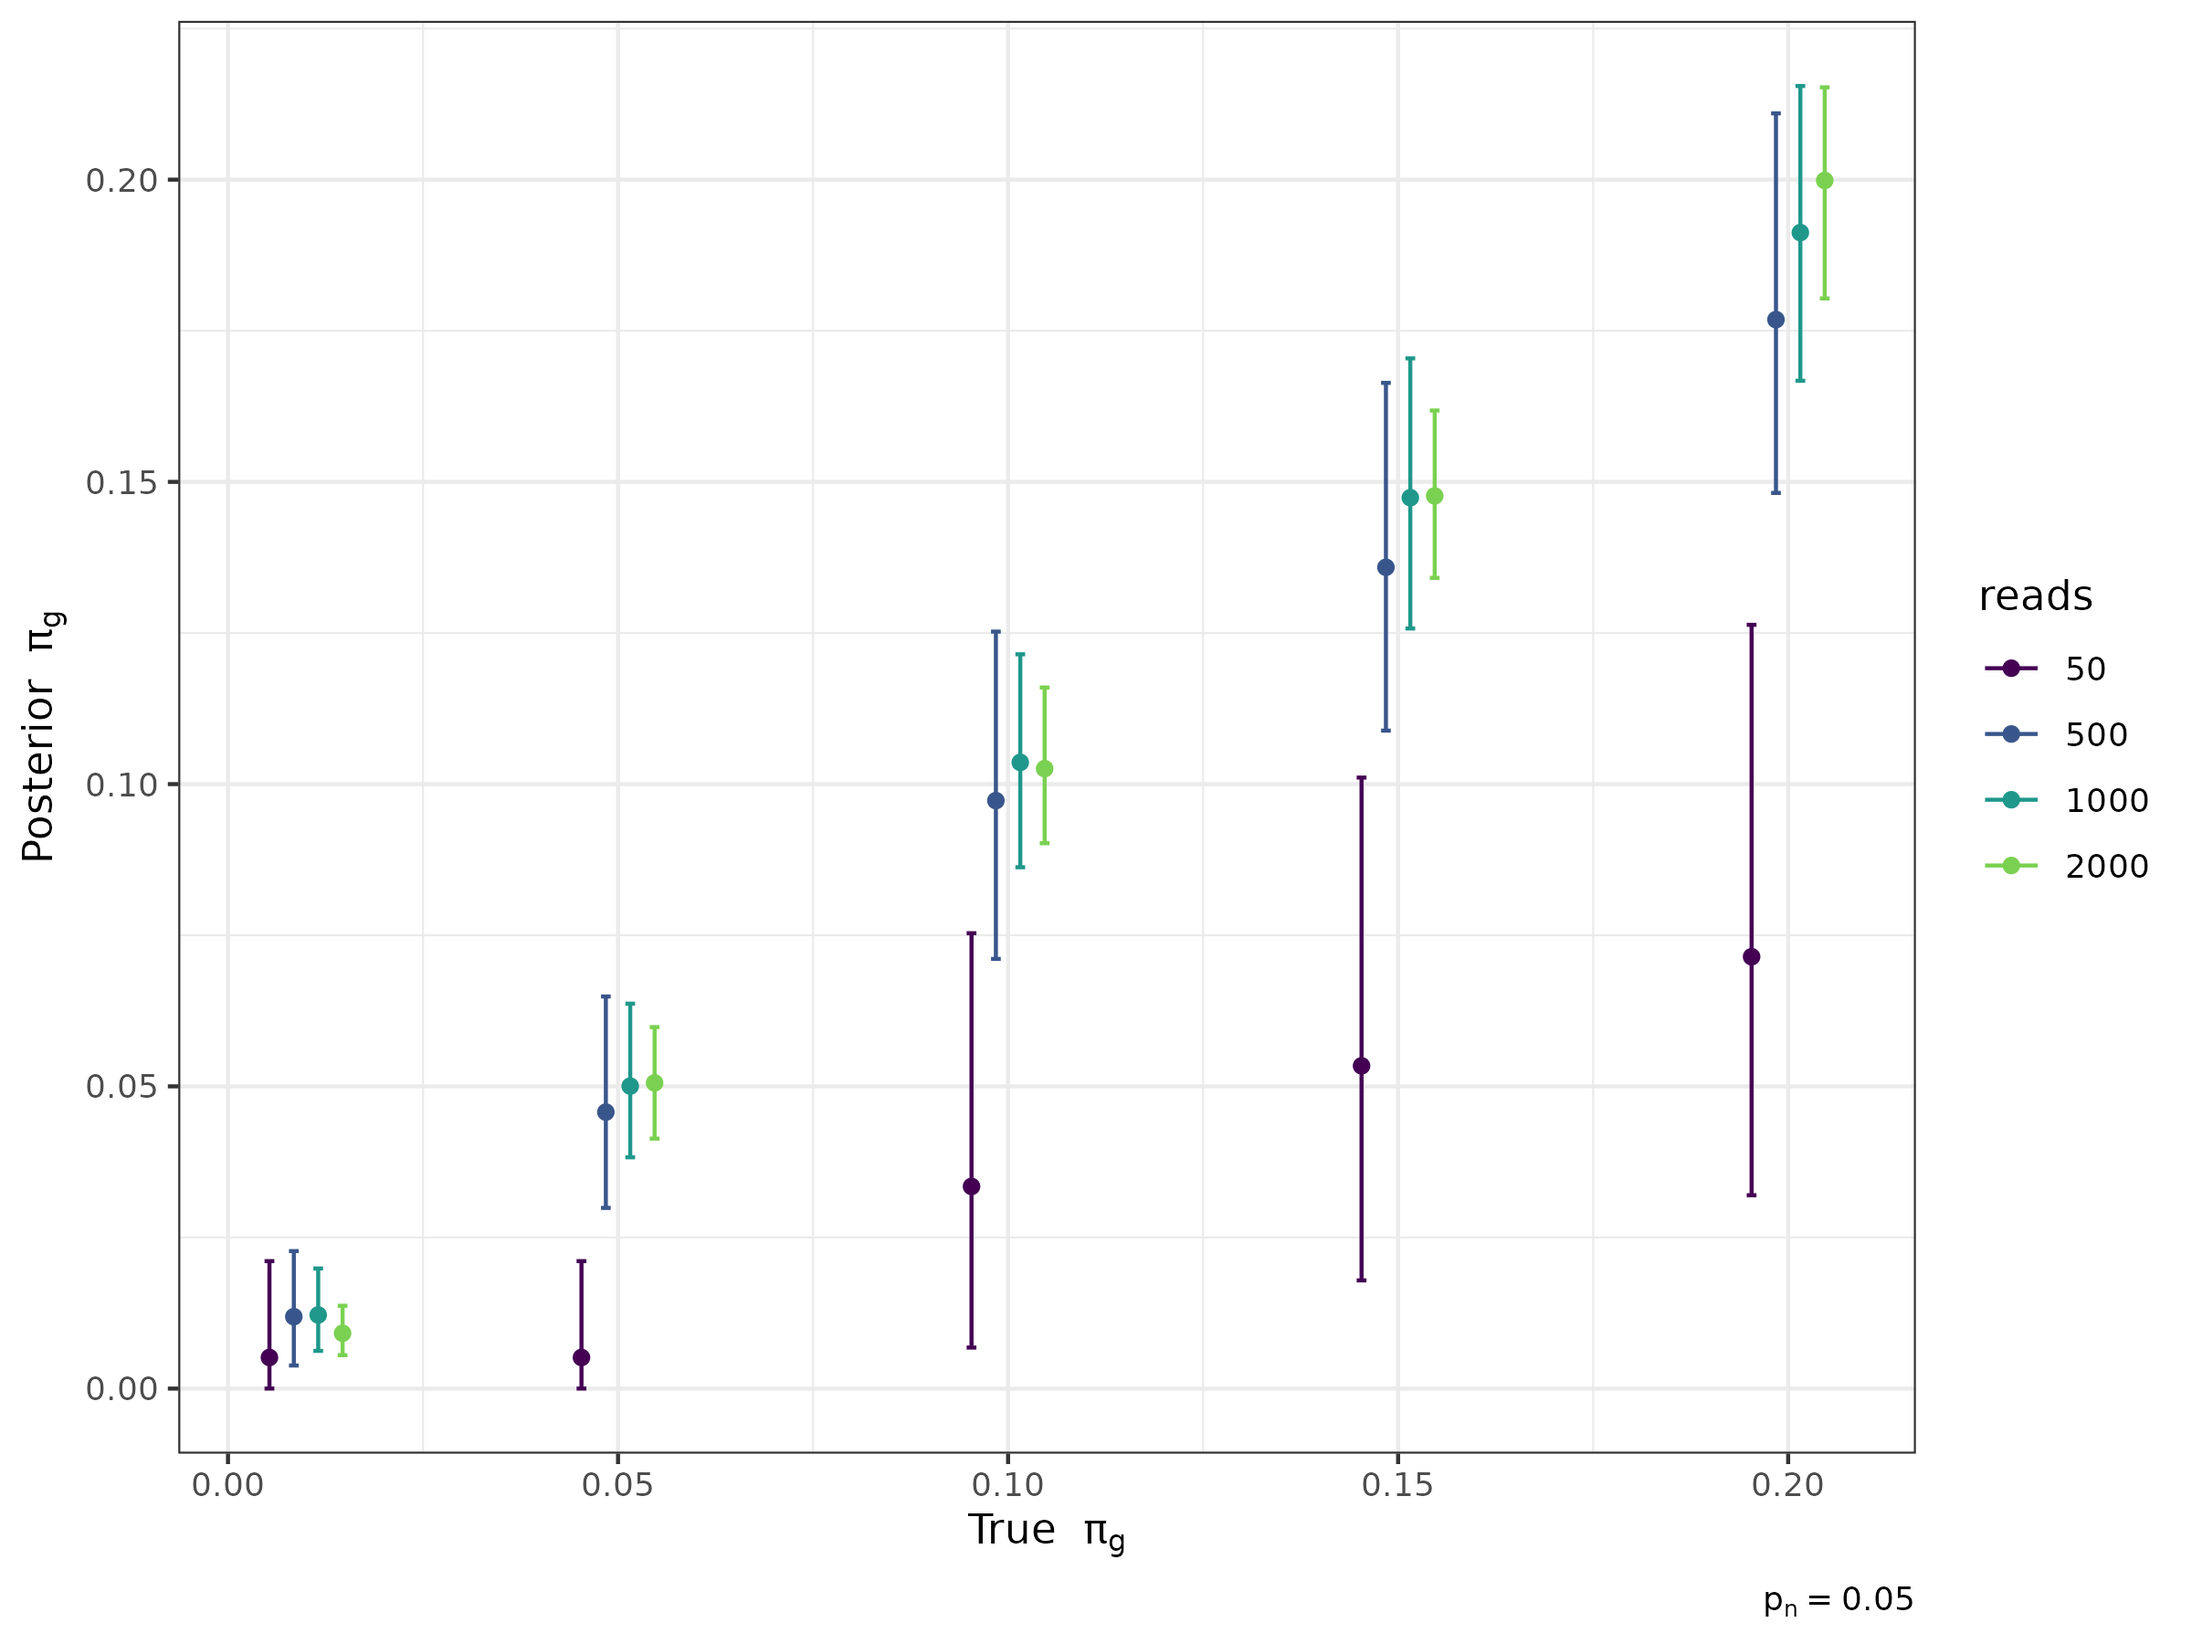
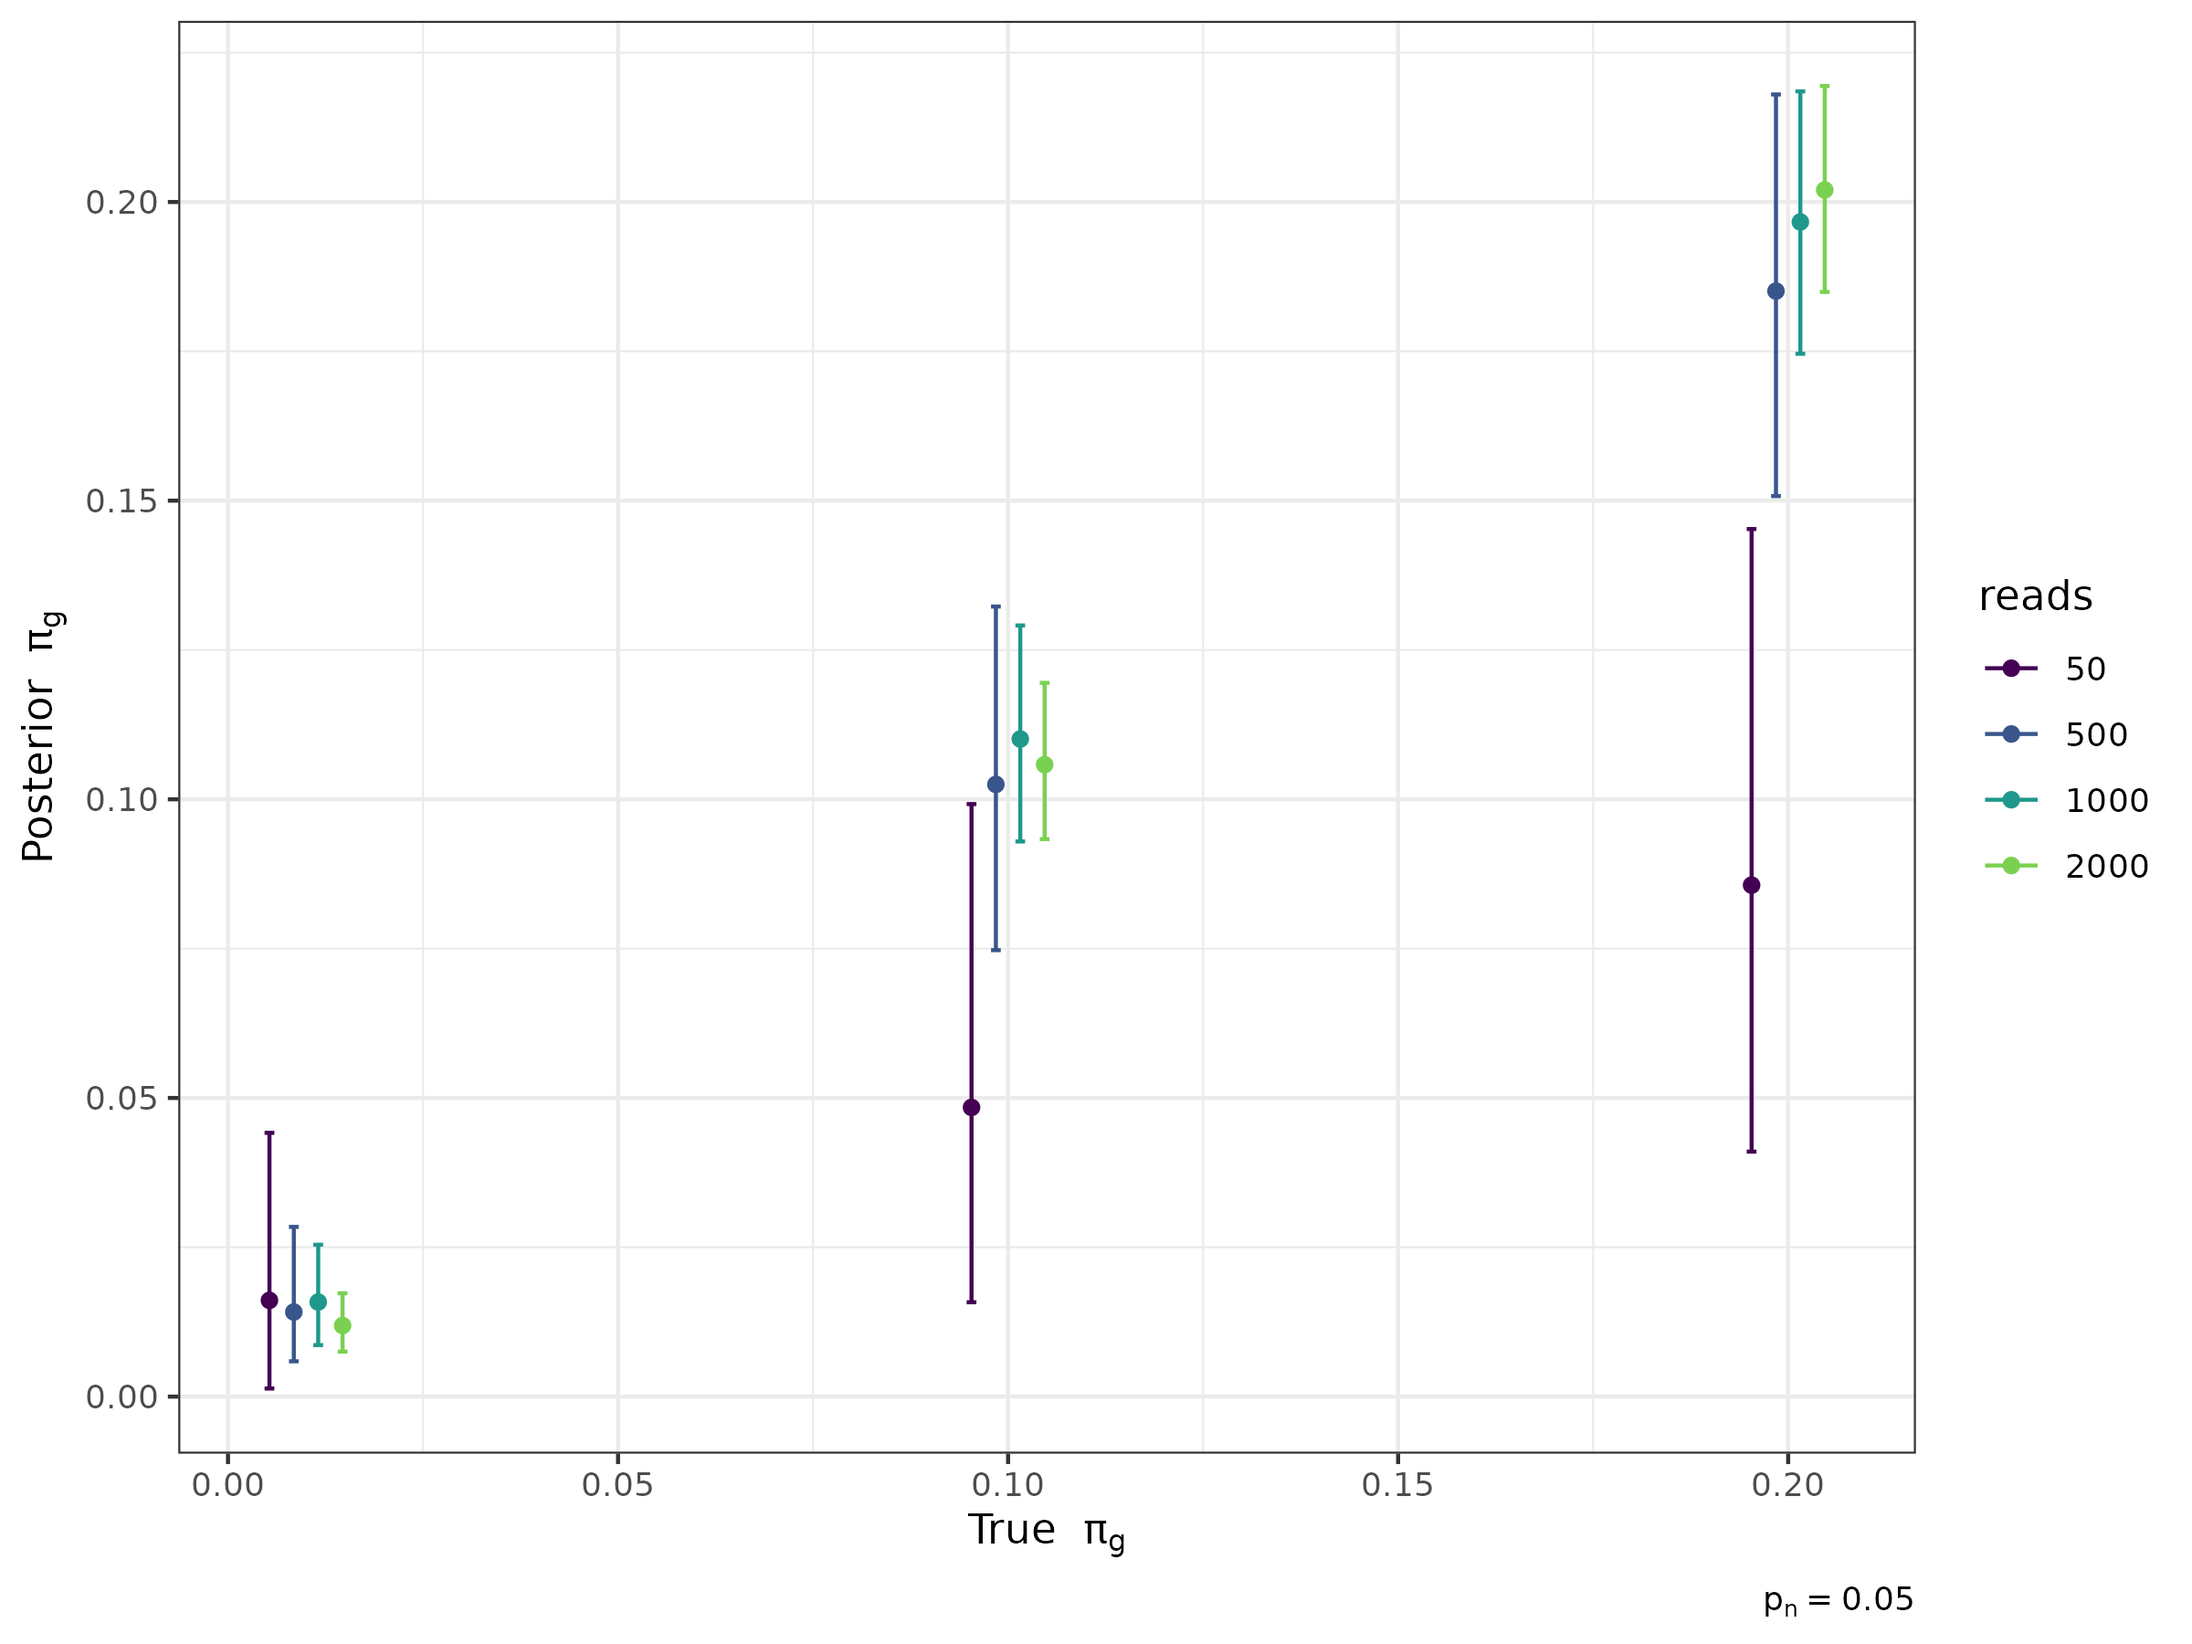
getting there

diff --git a/README.md b/README.md
@@ -12,9 +12,9 @@ A Gibbs sampling approach for analysis of SLAM-seq data.
     - [ ] (2.2) read counts
         - [x] run
         - [x] calibration curves
-        - [ ] adjust prior on $f$ downward
-        - [ ] strengthen prior for low read counts
-            - [ ] eBayes: get $\pi_g$ MLE from the data
+        - [x] adjust prior on $f$ downward
+        - [ ] weaken prior for low read counts
+        - [ ] eBayes: get $\pi_g$ MLE from the data
     - [ ] (2.3) substitution rates (old and new, e.g. sequencing error and 4sU incorporation) (experimental quality)
         - [ ] accuracy heatmap f(x = old, y = new)
         - [ ] or just separate sets of calibration curves
